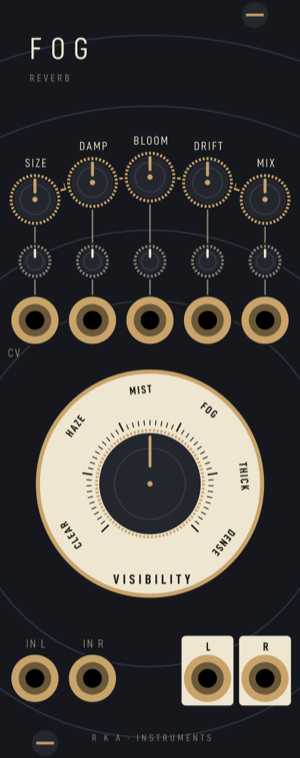
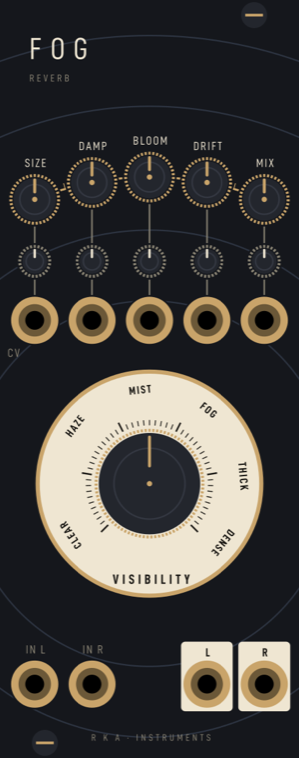
Fog panel: bottom row on the house row (116 mm), as Sway, Fathom and Hadal

diff --git a/tools/gen_panels.py b/tools/gen_panels.py
@@ -404,10 +404,11 @@ PANELS = {
         + [("param", n, x, _fog_on(x), n) for n, x in zip(_FG_COLS, _FG_X)]
         + [("param", n + "_ATT", x, _FG_ATT_Y, None) for n, x in zip(_FG_COLS, _FG_X)]
         + [("input", n + "_CV", x, _FG_CV_Y, None) for n, x in zip(_FG_COLS, _FG_X)]
-        + [("input", "IN_L", _FG_X[0], 115.0, "IN L"),
-           ("input", "IN_R", _FG_X[1], 115.0, "IN R"),
-           ("output", "L", _FG_X[3], 115.0, "L"),
-           ("output", "R", _FG_X[4], 115.0, "R")],
+        # The bottom row at 116, the house row (Sway, Fathom, Hadal).
+        + [("input", "IN_L", _FG_X[0], 116.0, "IN L"),
+           ("input", "IN_R", _FG_X[1], 116.0, "IN R"),
+           ("output", "L", _FG_X[3], 116.0, "L"),
+           ("output", "R", _FG_X[4], 116.0, "R")],
         sizes={"PARAM_VISIBILITY": "hero"},
         circles=[(*_FG_O, r) for r in (31, 43, 64, 76)],
         limbs=[dict(c=_FG_O, r=_FG_LIMB, a0=153, a1=207, step=2, major=5)],

diff --git a/src/fog/FogLayout.hpp b/src/fog/FogLayout.hpp
@@ -19,9 +19,9 @@ static const rack::math::Vec INPUT_DAMP_CV(15.65f, 54.3f);
 static const rack::math::Vec INPUT_BLOOM_CV(25.4f, 54.3f);
 static const rack::math::Vec INPUT_DRIFT_CV(35.15f, 54.3f);
 static const rack::math::Vec INPUT_MIX_CV(44.9f, 54.3f);
-static const rack::math::Vec INPUT_IN_L(5.9f, 115.0f);
-static const rack::math::Vec INPUT_IN_R(15.65f, 115.0f);
-static const rack::math::Vec OUTPUT_L(35.15f, 115.0f);
-static const rack::math::Vec OUTPUT_R(44.9f, 115.0f);
+static const rack::math::Vec INPUT_IN_L(5.9f, 116.0f);
+static const rack::math::Vec INPUT_IN_R(15.65f, 116.0f);
+static const rack::math::Vec OUTPUT_L(35.15f, 116.0f);
+static const rack::math::Vec OUTPUT_R(44.9f, 116.0f);
 static const rack::math::Vec SCREWS[] = {rack::math::Vec(43.18f, 2.54f), rack::math::Vec(7.62f, 125.96f)};
 }
